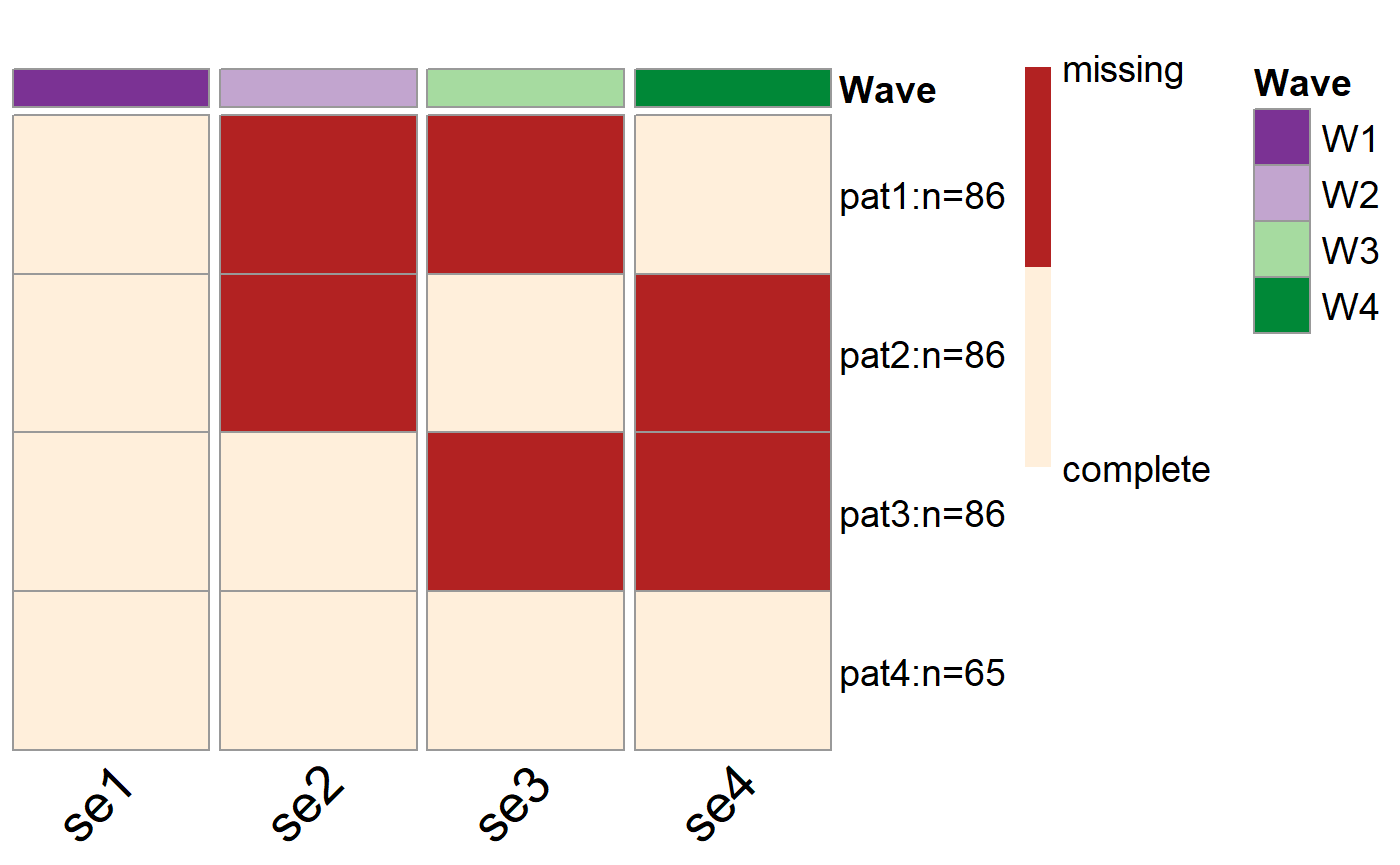
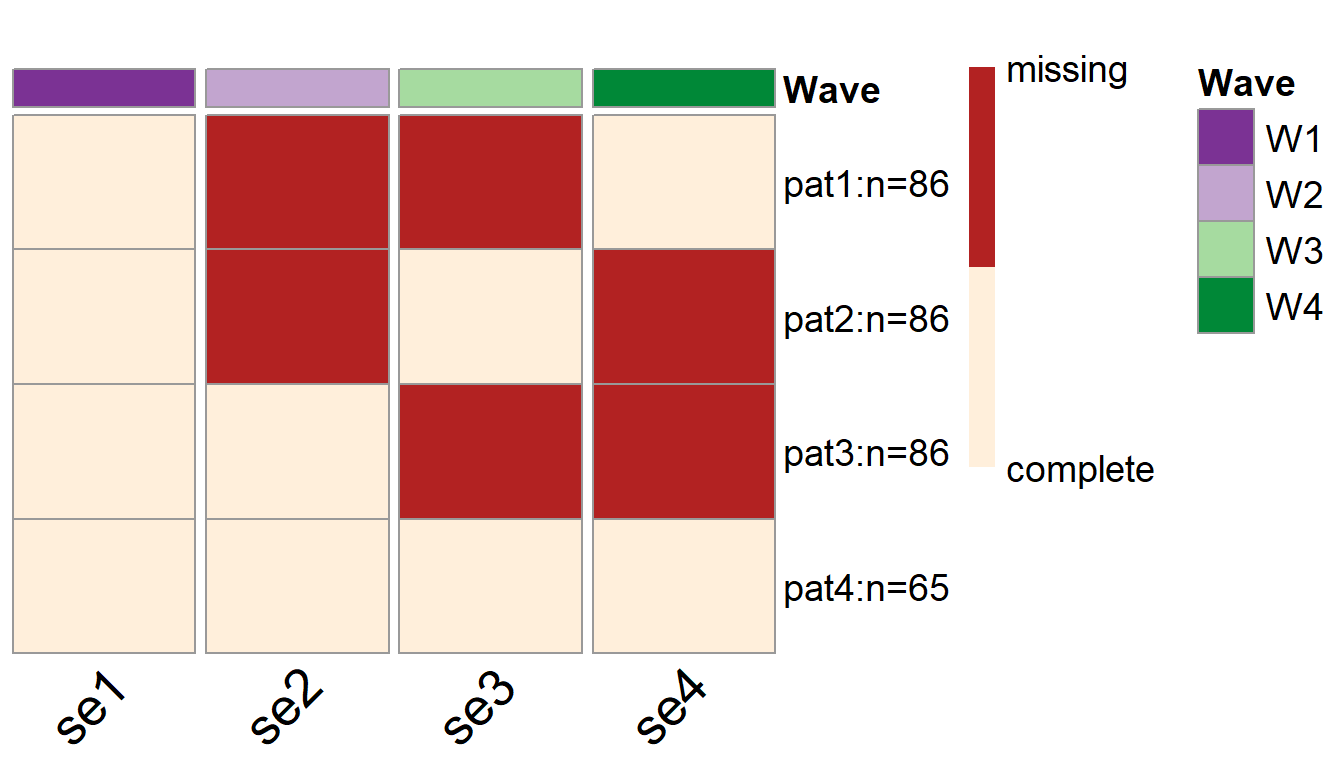
fix the path

Changed region(s): [[0.0, 0.0625, 0.875, 0.9688], [0.875, 0.0625, 1.0, 0.4375]]

diff --git a/docs/articles/Linear-Latent-Growth-Model.html b/docs/articles/Linear-Latent-Growth-Model.html
@@ -331,7 +331,7 @@ A linear LGM
 <p>To <a href="PlotPM.html">visualize the missing data patterns of the optimal PHPM design</a>, we can use the <code><a href="../reference/plotPM.html">plotPM()</a></code> function. It will plot the missing data pattern matrix so people can have a more intuitive understanding of the optimal design that was selected. In this plot, each row represents a unique missing data pattern. Each column represents an observed variable. The number of participants assigned to each missing data pattern is also labeled.</p>
 <p>In this example, we can see that 65 participants are assigned to provide complete data over the future waves of data collection, while the rest of the participants are assigned to one of the three missing data patterns. For instance, there are 86 participants who are randomly picked to NOT provide data in wave 2 and wave 3 (the first row of the plot); Another 86 participants are randomly picked to NOT provide data in wave 2 and wave 4 (the second row of the plot).</p>
 <div class="sourceCode" id="cb9"><pre class="sourceCode r"><code class="sourceCode r"><a class="sourceLine" id="cb9-1" title="1"><span class="kw"><a href="../reference/plotPM.html">plotPM</a></span>(wave.ex1)</a></code></pre></div>
-<p><img src="Linear-Latent-Growth-Model_files/figure-html/unnamed-chunk-7-1.png" width="700"></p>
+<p><img src="Linear-Latent-Growth-Model_files/figure-html/unnamed-chunk-7-1.png" width="672"></p>
 </div>
   </div>
 
